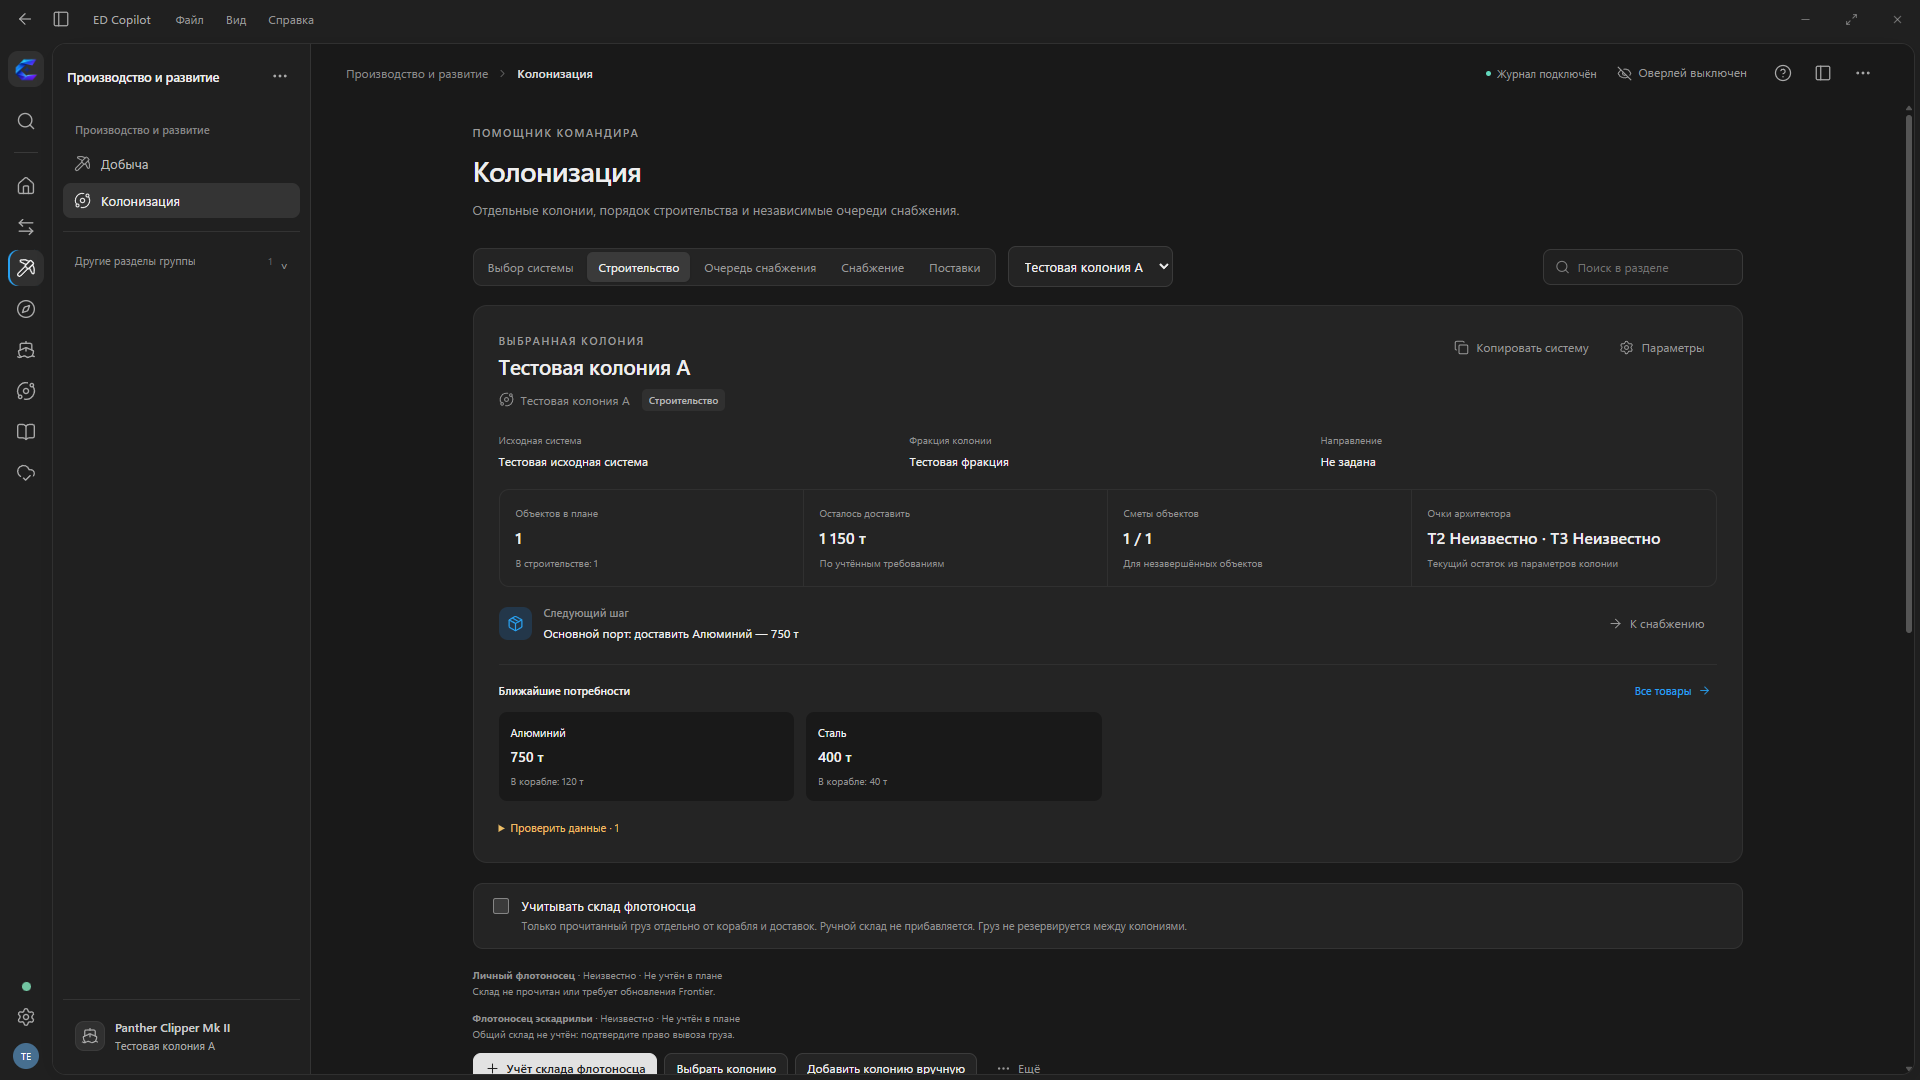
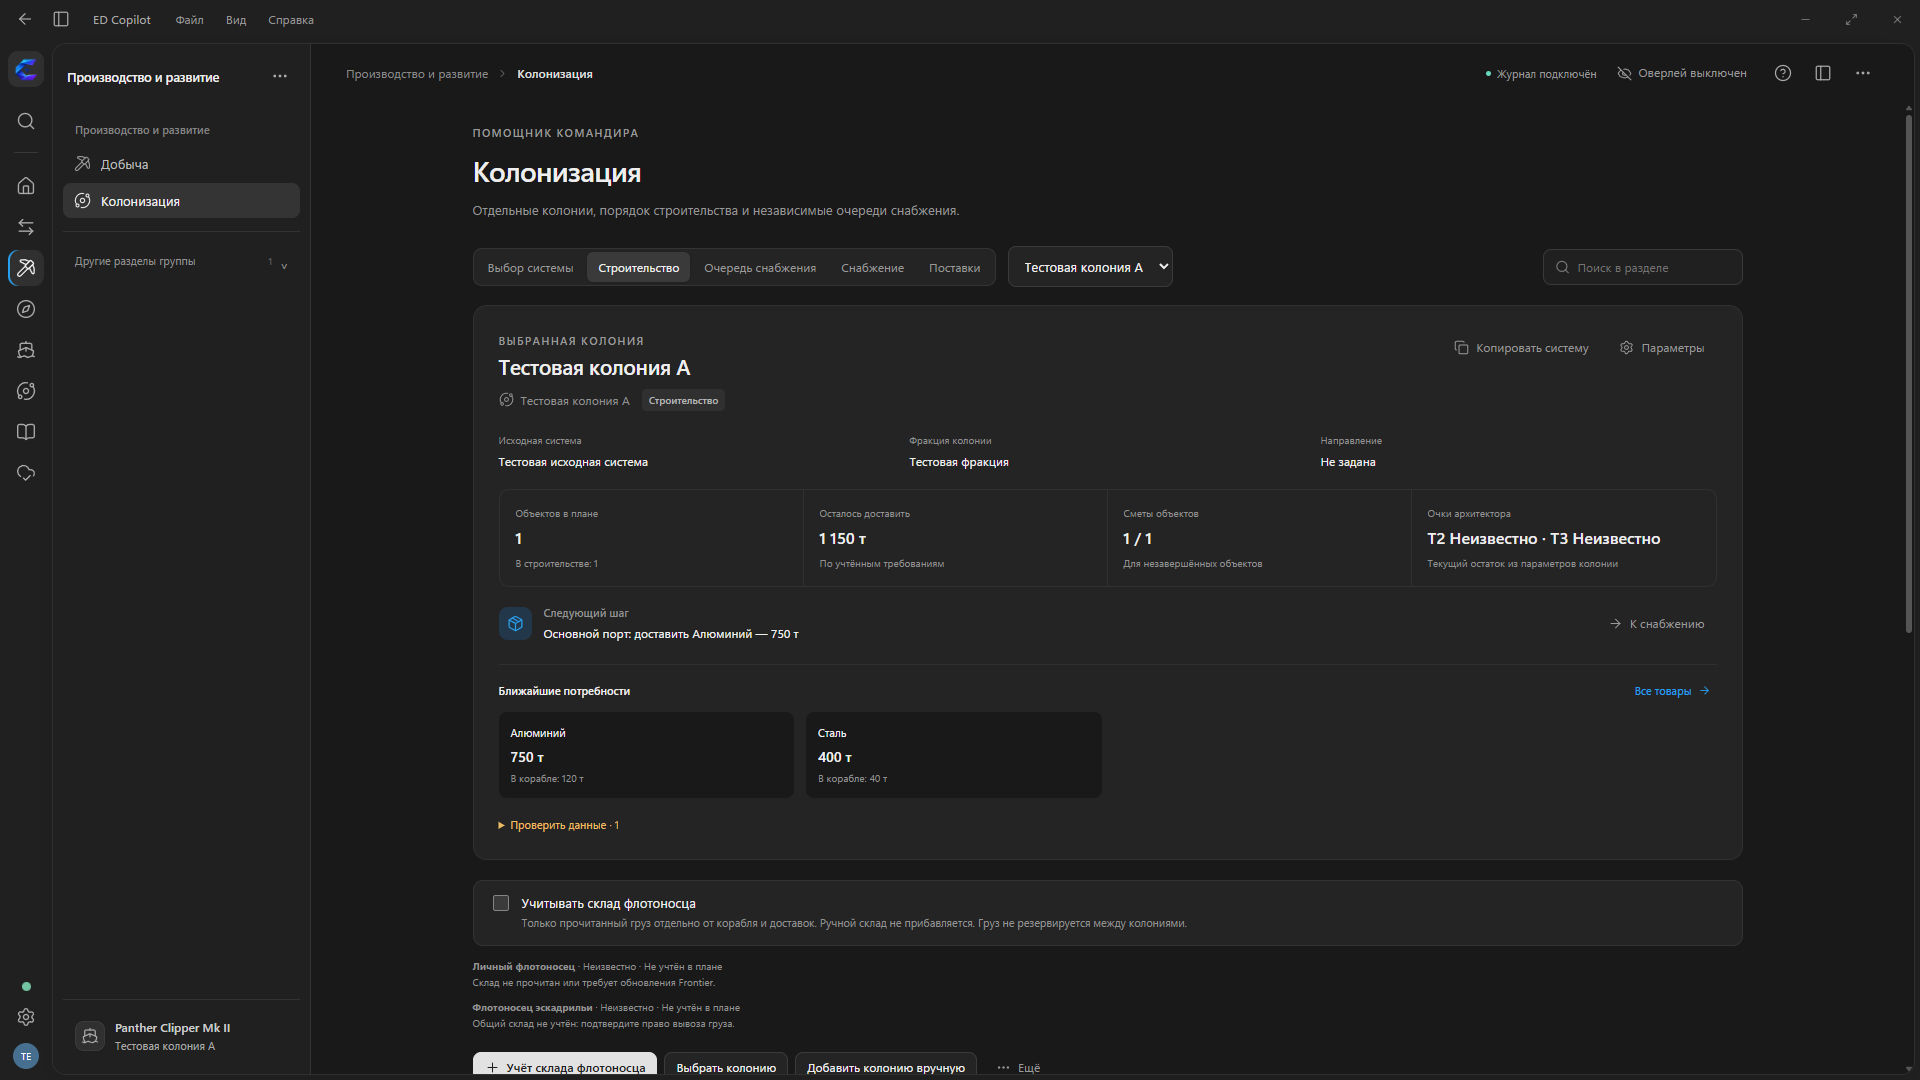
[release] Complete 2.7.0 with readable carrier warehouse supply summaries

diff --git a/internal/frontend/colonization-workspace.js b/internal/frontend/colonization-workspace.js
@@ -57,7 +57,7 @@ function originSearch(C,u){
 function stockAccessScope(C){const id=(C.state?.colonization?.carrierWarehouses||[]).find(item=>item.kind==='squadron')?.id,fid=C.state?.commander?.fid;return id&&fid?String(fid)+'|'+String(id):'';}
 function warehouseOptions(C,u){
  const colony=C.state?.colonization||{},r=state(C),enabled=colony.includeCarrierWarehouse===true,canConfirm=!!stockAccessScope(C);
- return '<section class="colony-warehouse-options"><label class="route-clipboard-option"><input id="colony-include-carrier-stock" type="checkbox" '+(enabled?'checked ':'')+(r.warehousePending?'disabled ':'')+'><span>'+th('Учитывать склад флотоносца')+'<small>'+th('Только прочитанный груз отдельно от корабля и доставок. Ручной склад не прибавляется. Груз не резервируется между колониями.')+'</small></span></label>'+(enabled?'<label class="route-clipboard-option"><input id="colony-squadron-stock-access" type="checkbox" '+(colony.squadronWarehouseAccessConfirmed?'checked ':'')+(r.warehousePending||!canConfirm&&!colony.squadronWarehouseAccessConfirmed?'disabled ':'')+'><span>'+th('Доступен груз эскадры')+'<small>'+th(canConfirm?'Frontier показывает общий склад, но не подтверждает право вывоза. Оставьте выключенным, если груз недоступен.':'Сначала обновите Frontier, чтобы прочитать флотоносец эскадры.')+'</small></span></label>':'')+'<div class="colony-source-note">'+(colony.carrierWarehouses||[]).map(item=>'<p><strong>'+th(item.kind==='squadron'?'Флотоносец эскадрильи':'Личный флотоносец')+(item.callsign?' · '+u.esc(item.callsign):'')+'</strong> · '+u.esc(format(item.knownTons,u,t(' т')))+(item.included?' · '+th(item.known?'Учтён в плане':'Ожидает данных'):' · '+th('Не учтён в плане'))+(item.receivedAt?' · '+th('Получено ')+u.esc(date(item.receivedAt)):'')+'<br>'+u.esc(t(item.reason||''))+'</p>').join('')+'</div>'+(r.warehouseError?'<p role="alert" class="colony-search-error">'+u.esc(r.warehouseError)+'</p>':'')+'</section>';
+ return '<div class="colony-warehouse-options" role="group" aria-label="'+th('Учёт склада флотоносца')+'"><label class="route-clipboard-option"><input id="colony-include-carrier-stock" type="checkbox" '+(enabled?'checked ':'')+(r.warehousePending?'disabled ':'')+'><span>'+th('Учитывать склад флотоносца')+'<small>'+th('Только прочитанный груз отдельно от корабля и доставок. Ручной склад не прибавляется. Груз не резервируется между колониями.')+'</small></span></label>'+(enabled?'<label class="route-clipboard-option"><input id="colony-squadron-stock-access" type="checkbox" '+(colony.squadronWarehouseAccessConfirmed?'checked ':'')+(r.warehousePending||!canConfirm&&!colony.squadronWarehouseAccessConfirmed?'disabled ':'')+'><span>'+th('Доступен груз эскадры')+'<small>'+th(canConfirm?'Frontier показывает общий склад, но не подтверждает право вывоза. Оставьте выключенным, если груз недоступен.':'Сначала обновите Frontier, чтобы прочитать флотоносец эскадры.')+'</small></span></label>':'')+'<div class="colony-source-note">'+(colony.carrierWarehouses||[]).map(item=>'<p><strong>'+th(item.kind==='squadron'?'Флотоносец эскадрильи':'Личный флотоносец')+(item.callsign?' · '+u.esc(item.callsign):'')+'</strong> · '+u.esc(format(item.knownTons,u,t(' т')))+(item.included?' · '+th(item.known?'Учтён в плане':'Ожидает данных'):' · '+th('Не учтён в плане'))+(item.receivedAt?' · '+th('Получено ')+u.esc(date(item.receivedAt)):'')+'<br>'+u.esc(t(item.reason||''))+'</p>').join('')+'</div>'+(r.warehouseError?'<p role="alert" class="colony-search-error">'+u.esc(r.warehouseError)+'</p>':'')+'</div>';
 }
 function render(C,u){if(!active(C))return '';return '<div data-colony-workspace>'+summary(C,u)+warehouseOptions(C,u)+(selectionMode(C)?originSearch(C,u):'')+'</div>';}
 function clearError(C,u){const r=state(C);r.error='';const node=u.$('.colony-workspace-error');if(node){node.textContent='';node.hidden=true;}}

diff --git a/internal/frontend/v27-smoke.js b/internal/frontend/v27-smoke.js
@@ -28,7 +28,18 @@ async function run(C,u){
    const warehouse=u.$('#colony-include-carrier-stock');check(language+': colony warehouse option is available',!!warehouse);warehouse.click();
    await wait(()=>C.state.colonization?.includeCarrierWarehouse===!warehouseBefore&&!u.$('#colony-include-carrier-stock')?.disabled);
    check(language+': colony warehouse option saves through the real backend',u.$('#colony-include-carrier-stock')?.checked===!warehouseBefore);
-   if(!warehouseBefore)check(language+': unread squadron warehouse requires an observed carrier',u.$('#colony-squadron-stock-access')?.disabled===true);
+   if(!warehouseBefore){
+    check(language+': unread squadron warehouse requires an observed carrier',u.$('#colony-squadron-stock-access')?.disabled===true);
+    const cards=u.$$('.colony-supply-items>div');check(language+': enabled warehouse supply cards are present',cards.length>0);
+    check(language+': enabled warehouse metrics have separate readable rows',cards.every(card=>{
+     const rows=[...card.querySelectorAll('small')],box=card.getBoundingClientRect();
+     return rows.length===3&&rows.every((row,index)=>{
+      const bounds=row.getBoundingClientRect(),previous=index?rows[index-1].getBoundingClientRect():null;
+      return bounds.width>0&&bounds.height>0&&bounds.left>=box.left&&bounds.right<=box.right+1&&row.scrollWidth<=row.clientWidth+1&&(!previous||bounds.top-previous.bottom>=4);
+     });
+    }));
+    const stockGroup=u.$('.colony-warehouse-options');check(language+': warehouse controls remain an independent visible group',stockGroup?.tagName==='DIV'&&stockGroup.getAttribute('role')==='group'&&!stockGroup.closest('summary,.summary-trigger,.section-summary-trigger'));
+   }
    u.$('#colony-include-carrier-stock').click();await wait(()=>C.state.colonization?.includeCarrierWarehouse===warehouseBefore&&!u.$('#colony-include-carrier-stock')?.disabled);
   }
   await u.handleClick('sidebar',u.$('[data-click="sidebar"]'));check('Workspace sidebar can collapse',C.collapsed===true);

diff --git a/internal/frontend/colonization-workspace.css b/internal/frontend/colonization-workspace.css
@@ -33,10 +33,15 @@
 .colony-supply-heading button{display:flex;align-items:center;gap:6px;font-size:11px;color:var(--accent)}
 .colony-supply-heading button .icon{height:13px;width:13px}
 .colony-supply-items{display:grid;grid-template-columns:repeat(4,minmax(0,1fr));gap:12px}
-.colony-supply-items>div{padding:12px;border-radius:8px;background:var(--bg);min-width:0}
+.colony-supply-items>div{display:grid;align-content:start;row-gap:5px;padding:12px;border-radius:8px;background:var(--bg);min-width:0}
 .colony-supply-items span{display:block;font-size:11px;line-height:1.6;overflow-wrap:anywhere}
-.colony-supply-items strong{display:block;font-size:14px;font-weight:500;margin:5px 0}
-.colony-supply-items small{font-size:10px;color:var(--muted);line-height:1.5}
+.colony-supply-items strong{display:block;font-size:14px;font-weight:500;margin:0}
+.colony-supply-items small{display:block;min-width:0;overflow-wrap:anywhere;font-size:10px;color:var(--muted);line-height:1.5}
+.colony-warehouse-options{display:grid;gap:12px;margin:20px 0}
+.colony-warehouse-options>.route-clipboard-option{margin:0}
+.colony-warehouse-options>.colony-source-note{margin:0}
+.colony-warehouse-options>.colony-source-note p{margin:0}
+.colony-warehouse-options>.colony-source-note p+p{margin-top:8px}
 .colony-data-warnings{margin-top:17px;color:var(--muted);font-size:11px;line-height:1.8}
 .colony-data-warnings summary{cursor:pointer;color:var(--warn)}
 .colony-data-warnings ul{padding-left:17px;margin:9px 0 0}
